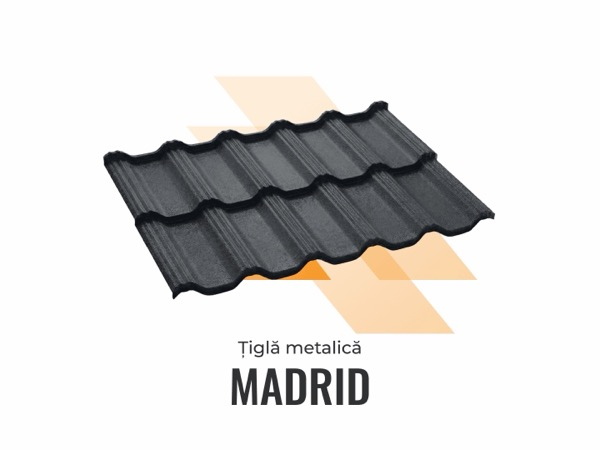
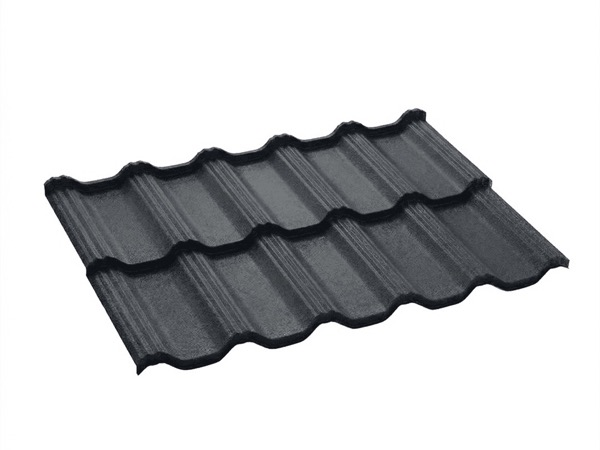
W27-FIX-06 The ten marked previews replaced by the makers' own packshots under W27-R-13
Seven Imperlux tiles take Imperlux's own mark-free gallery renders (Imperlux is their maker)
under a fifth override sentence naming the ruling; the two IKO shingles take IKO's own colour
swatches from iko.eu; Creaton Rapido takes the maker's (swissporTON) render. Fetched through the
intake, cropped to 4:3, looked at. Provenance rows, ledger rows, override lists, photo review.

Claude-Session: https://claude.ai/code/session_01WG5LwKbwaLCBty8n7hwXDp

Changed region(s): [[0.06, 0.1556, 0.96, 0.9022]]

diff --git a/scripts/check-asset-provenance.js b/scripts/check-asset-provenance.js
@@ -108,12 +108,25 @@ const OVERRIDES = [
     ruling: 'W27-R-04',
     licence: 'owner_override_imperlux, source of record by owner decision W27-R-04, the preview image as imperlux.md publishes it, watermark untouched, no upscale, source URL per file, owner accepted 2026-09-22',
     files: [
-      'ACIM-10', 'ACIM-11', 'ACIM-12', 'ACIM-13', 'ACIM-14', 'ACIM-15', 'ACIM-16', 'NVK-01', 'NVK-02', 'NVK-03', 'NVK-04',
+      /* W27-FIX-06 (W27-R-13): ACIM-10 to ACIM-16 moved to the fifth entry below (the maker's
+         own render, no mark); ACIM-01, ACIM-02 and ACIM-03 left the overrides altogether, their
+         pictures are the makers' own (swissporTON, IKO) under the manufacturer-packshot origin. */
+      'NVK-01', 'NVK-02', 'NVK-03', 'NVK-04',
       'ACOP-09',
-      'ACIM-02', 'ACIM-03', 'ACIM-01',
       /* W27-C-06: the rainwater parts and the metal tile accessories. */
       'ACIM-17', 'ACIM-18', 'ACIM-19', 'ACIM-20', 'ACIM-21', 'ACIM-22', 'ACIM-23', 'ACIM-24', 'ACIM-25', 'ACIM-26', 'ACIM-27', 'ACIM-28', 'ACIM-29', 'ACIM-30', 'ACIM-31', 'ACIM-32', 'ACIM-33', 'ACIM-34', 'ACIM-35', 'ACIM-36', 'ACIM-37', 'ACIM-38', 'ACIM-39', 'ACIM-40', 'ACIM-41', 'ACIM-42', 'ACIM-43', 'ACIM-44', 'ACIM-45', 'ACIM-46', 'ACIM-47', 'ACIM-48',
     ],
+  },
+  /* AMENDED (W27-R-13, W27-FIX-06): a FIFTH override, with its own sentence. Imperlux is the
+     maker of its seven metal tile models (every page: brand Imperlux, ArcelorMittal steel), so
+     "the manufacturer's own packshot" for them is Imperlux's own gallery render of the sheet,
+     which carries neither its orange mark nor the burned-in name the preview did. The sentence
+     records the 4:3 crop the card takes and that the decision is a strategy default the owner
+     may overturn. Seven files, by name; nothing else may stand on this sentence. */
+  {
+    ruling: 'W27-R-13',
+    licence: "owner_override_imperlux, the maker's own packshot by owner decision W27-R-13 (strategy default, owner may overturn), imperlux.md's gallery render of the model without its mark or name, cropped to 4:3, no upscale, source URL per file, 2026-09-23",
+    files: ['ACIM-10', 'ACIM-11', 'ACIM-12', 'ACIM-13', 'ACIM-14', 'ACIM-15', 'ACIM-16'],
   },
 ];
 const OVERRIDE_FILES = OVERRIDES.flatMap((o) => o.files);

diff --git a/scripts/fetch-packshot.js b/scripts/fetch-packshot.js
@@ -95,7 +95,11 @@ const OVERRIDE_SLOTS = [
   'GARD-01', 'GARD-02', 'GARD-03', 'GARD-04', 'GARD-05', 'GARD-06', 'GARD-07', 'GARD-08',
   'GARDB-01', 'GARDB-02', 'GARDB-03', 'GARDB-04',
   'ACOP-01', 'ACOP-02', 'ACOP-03', 'ACOP-04', 'ACOP-05', 'ACOP-06', 'ACOP-07',
-  'ACIM-01', 'ACIM-02', 'ACIM-03', 'ACIM-04', 'ACIM-05', 'ACIM-06', 'ACIM-07', 'ACIM-08', 'ACIM-09',
+  /* AMENDED (W27-R-13, W27-FIX-06): ACIM-01, ACIM-02 and ACIM-03 left this list. Their pictures
+     are the makers' own (swissporTON for Creaton Rapido, IKO for the two shingles) under the
+     manufacturer-packshot origin, so the override no longer covers them; a permission nothing
+     stands on is a dead exception. ACIM-10 to ACIM-16 stay: Imperlux is their maker. */
+  'ACIM-04', 'ACIM-05', 'ACIM-06', 'ACIM-07', 'ACIM-08', 'ACIM-09',
   /* AMENDED (W27-R-04, W27-C-03): imperlux.md is the source of record for everything under
      Acoperisuri and Garduri, so the list grows by name to every product slot those pages
      render: the seven metal tile models, the four Novatik models, and the ninth hub tile. */

diff --git a/scripts/check-photo-slots-w24.js b/scripts/check-photo-slots-w24.js
@@ -181,7 +181,11 @@ const OVERRIDE_SLOTS = [
      "the entire /servicii/acoperisuri/ hub including the second bento tiles":
      the second bento's three pictured tiles and the nine imperlux-only cards. */
   'ACOP-05', 'ACOP-06', 'ACOP-07',
-  'ACIM-01', 'ACIM-02', 'ACIM-03', 'ACIM-04', 'ACIM-05', 'ACIM-06', 'ACIM-07', 'ACIM-08', 'ACIM-09',
+  /* AMENDED (W27-R-13, W27-FIX-06): ACIM-01, ACIM-02 and ACIM-03 left this list. Their pictures
+     are the makers' own (swissporTON for Creaton Rapido, IKO for the two shingles) under the
+     manufacturer-packshot origin, so the override no longer covers them; a permission nothing
+     stands on is a dead exception. ACIM-10 to ACIM-16 stay: Imperlux is their maker. */
+  'ACIM-04', 'ACIM-05', 'ACIM-06', 'ACIM-07', 'ACIM-08', 'ACIM-09',
   /* AMENDED (W27-R-04, W27-C-03): FORTY. "imperlux.md is the source of record for
      EVERYTHING under Acoperisuri and Garduri ... Same images, same numbers." The seven
      metal tile models (ACIM-10 to 16), the four Novatik models (NVK-01 to 04) and the

diff --git a/docs/assets/PROVENANCE.md b/docs/assets/PROVENANCE.md
@@ -505,9 +505,9 @@ rows now carry `legacy, licence unverified`.
 | `public/img/acoperisuri/ACOP-06.jpg` | https://imperlux.md/acoperisuri · https://imperlux.md/acoperisuri/images/categories/shingle.png · Imperlux | owner_override_imperlux, competitor origin taken by owner decision W26-R10, cropped where burned-in text or branding sat, no upscale, source URL per file, owner accepted 2026-09-22 | https://imperlux.md/acoperisuri | 2026-09-22 |
 | `public/img/acoperisuri/ACOP-07.jpg` | https://imperlux.md/acoperisuri · https://imperlux.md/acoperisuri/images/categories/sisteme-pluviale.png · Imperlux | owner_override_imperlux, competitor origin taken by owner decision W26-R10, cropped where burned-in text or branding sat, no upscale, source URL per file, owner accepted 2026-09-22 | https://imperlux.md/acoperisuri | 2026-09-22 |
 | `public/img/acoperisuri/ACOP-08.jpg` | client direct transfer, owner folder RC-webpics_v2 ACOPERIȘURI, 22.09.2026 | owned by Rapid Construct, supplied for site use | not required, client-supplied original | 2026-09-22 |
-| `public/img/acoperisuri/ACIM-01.jpg` | https://imperlux.md/acoperisuri/produse/tigla-ceramica/creaton-rapido/ · https://imperlux.md/acoperisuri/images/products/creaton-rapido/hero.png · Imperlux | owner_override_imperlux, source of record by owner decision W27-R-04, the preview image as imperlux.md publishes it, watermark untouched, no upscale, source URL per file, owner accepted 2026-09-22 | https://imperlux.md/acoperisuri/produse/tigla-ceramica/creaton-rapido/ | 2026-09-22 |
-| `public/img/acoperisuri/ACIM-02.jpg` | https://imperlux.md/acoperisuri/produse/shingle/iko-cambridge/ · https://imperlux.md/acoperisuri/images/products/iko-cambridge/hero.png · Imperlux | owner_override_imperlux, source of record by owner decision W27-R-04, the preview image as imperlux.md publishes it, watermark untouched, no upscale, source URL per file, owner accepted 2026-09-22 | https://imperlux.md/acoperisuri/produse/shingle/iko-cambridge/ | 2026-09-22 |
-| `public/img/acoperisuri/ACIM-03.jpg` | https://imperlux.md/acoperisuri/produse/shingle/iko-hex/ · https://imperlux.md/acoperisuri/images/products/iko-hex/hero.png · Imperlux | owner_override_imperlux, source of record by owner decision W27-R-04, the preview image as imperlux.md publishes it, watermark untouched, no upscale, source URL per file, owner accepted 2026-09-22 | https://imperlux.md/acoperisuri/produse/shingle/iko-hex/ | 2026-09-22 |
+| `public/img/acoperisuri/ACIM-01.jpg` | https://www.swissporton.ro/produse/tigla-ceramica/rapido · https://www.swissporton.ro/media/4225/download/texture_125732.jpg?v=1 · swissporTON (swisspor Hungary SEE Kft., the former CREATON South-East Europe works that make Rapido) | manufacturer packshot, reseller display, licence not verified, owner accepted 2026-09-23 under W27-R-13 (strategy default, owner may overturn); the maker's own rendered close-up of Rapido in dark brown engobe, cropped to 4:3, no upscale | https://www.swissporton.ro/produse/tigla-ceramica/rapido | 2026-09-23 |
+| `public/img/acoperisuri/ACIM-02.jpg` | https://www.iko.eu/ro/produse/sindrile/cambridge-xpress · https://www.iko.eu/sites/default/files/public/2021-05/CAMBRIDGE_Xpress_52_B.jpg · IKO (IKO Sales International NV) | manufacturer packshot, reseller display, licence not verified, owner accepted 2026-09-23 under W27-R-13 (strategy default, owner may overturn); the maker's own colour swatch of Cambridge in 52 Dual Black, cropped to 4:3, no upscale | https://www.iko.eu/ro/produse/sindrile/cambridge-xpress | 2026-09-23 |
+| `public/img/acoperisuri/ACIM-03.jpg` | https://www.iko.eu/ro/produse/sindrile/superglass-hex · https://www.iko.eu/sites/default/files/public/2021-06/Superglass_HEX_01.jpg · IKO (IKO Sales International NV) | manufacturer packshot, reseller display, licence not verified, owner accepted 2026-09-23 under W27-R-13 (strategy default, owner may overturn); the maker's own colour swatch of Superglass Hex in 01 Black, cropped to 4:3, no upscale | https://www.iko.eu/ro/produse/sindrile/superglass-hex | 2026-09-23 |
 | `public/img/acoperisuri/ACIM-04.jpg` | https://imperlux.md/acoperisuri/produse/sisteme-pluviale/carlig-pazie-universal/ · https://imperlux.md/acoperisuri/images/products/sisteme-pluviale/carlig-pazie-universal.jpg · Imperlux | owner_override_imperlux, competitor origin taken by owner decision W26-R10, cropped where burned-in text or branding sat, no upscale, source URL per file, owner accepted 2026-09-22 | https://imperlux.md/acoperisuri/produse/sisteme-pluviale/carlig-pazie-universal/ | 2026-09-22 |
 | `public/img/acoperisuri/ACIM-05.jpg` | https://imperlux.md/acoperisuri/produse/sisteme-pluviale/cot-60/ · https://imperlux.md/acoperisuri/images/products/sisteme-pluviale/cot-60.jpg · Imperlux | owner_override_imperlux, competitor origin taken by owner decision W26-R10, cropped where burned-in text or branding sat, no upscale, source URL per file, owner accepted 2026-09-22 | https://imperlux.md/acoperisuri/produse/sisteme-pluviale/cot-60/ | 2026-09-22 |
 | `public/img/acoperisuri/ACIM-06.jpg` | https://imperlux.md/acoperisuri/produse/sisteme-pluviale/prelungitor/ · https://imperlux.md/acoperisuri/images/products/sisteme-pluviale/prelungitor.jpg · Imperlux | owner_override_imperlux, competitor origin taken by owner decision W26-R10, cropped where burned-in text or branding sat, no upscale, source URL per file, owner accepted 2026-09-22 | https://imperlux.md/acoperisuri/produse/sisteme-pluviale/prelungitor/ | 2026-09-22 |
@@ -692,13 +692,13 @@ rows now carry `legacy, licence unverified`.
 | `public/img/galerie/reparatii/26-t.jpg` | client direct transfer, owner folder RC-webpics_v2 Renovări la cheie, 22.09.2026 | owned by Rapid Construct, supplied for site use | not required, client-supplied original | 2026-09-22 |
 | `public/img/galerie/reparatii/27.jpg` | client direct transfer, owner folder RC-webpics_v2 Renovări la cheie, 22.09.2026 | owned by Rapid Construct, supplied for site use | not required, client-supplied original | 2026-09-22 |
 | `public/img/galerie/reparatii/27-t.jpg` | client direct transfer, owner folder RC-webpics_v2 Renovări la cheie, 22.09.2026 | owned by Rapid Construct, supplied for site use | not required, client-supplied original | 2026-09-22 |
-| `public/img/acoperisuri/ACIM-10.jpg` | https://imperlux.md/acoperisuri/produse/tigla-metalica/barcelona/ · https://imperlux.md/acoperisuri/images/products/barcelona/hero.png · Imperlux | owner_override_imperlux, source of record by owner decision W27-R-04, the preview image as imperlux.md publishes it, watermark untouched, no upscale, source URL per file, owner accepted 2026-09-22 | https://imperlux.md/acoperisuri/produse/tigla-metalica/barcelona/ | 2026-09-22 |
-| `public/img/acoperisuri/ACIM-11.jpg` | https://imperlux.md/acoperisuri/produse/tigla-metalica/madrid/ · https://imperlux.md/acoperisuri/images/products/madrid/hero.png · Imperlux | owner_override_imperlux, source of record by owner decision W27-R-04, the preview image as imperlux.md publishes it, watermark untouched, no upscale, source URL per file, owner accepted 2026-09-22 | https://imperlux.md/acoperisuri/produse/tigla-metalica/madrid/ | 2026-09-22 |
-| `public/img/acoperisuri/ACIM-12.jpg` | https://imperlux.md/acoperisuri/produse/tigla-metalica/bavaria/ · https://imperlux.md/acoperisuri/images/products/bavaria/hero.png · Imperlux | owner_override_imperlux, source of record by owner decision W27-R-04, the preview image as imperlux.md publishes it, watermark untouched, no upscale, source URL per file, owner accepted 2026-09-22 | https://imperlux.md/acoperisuri/produse/tigla-metalica/bavaria/ | 2026-09-22 |
-| `public/img/acoperisuri/ACIM-13.jpg` | https://imperlux.md/acoperisuri/produse/tigla-metalica/heta/ · https://imperlux.md/acoperisuri/images/products/heta/hero.png · Imperlux | owner_override_imperlux, source of record by owner decision W27-R-04, the preview image as imperlux.md publishes it, watermark untouched, no upscale, source URL per file, owner accepted 2026-09-22 | https://imperlux.md/acoperisuri/produse/tigla-metalica/heta/ | 2026-09-22 |
-| `public/img/acoperisuri/ACIM-14.jpg` | https://imperlux.md/acoperisuri/produse/tigla-metalica/zet/ · https://imperlux.md/acoperisuri/images/products/zet/hero.png · Imperlux | owner_override_imperlux, source of record by owner decision W27-R-04, the preview image as imperlux.md publishes it, watermark untouched, no upscale, source URL per file, owner accepted 2026-09-22 | https://imperlux.md/acoperisuri/produse/tigla-metalica/zet/ | 2026-09-22 |
-| `public/img/acoperisuri/ACIM-15.jpg` | https://imperlux.md/acoperisuri/produse/tigla-metalica/finn/ · https://imperlux.md/acoperisuri/images/products/finn/hero.png · Imperlux | owner_override_imperlux, source of record by owner decision W27-R-04, the preview image as imperlux.md publishes it, watermark untouched, no upscale, source URL per file, owner accepted 2026-09-22 | https://imperlux.md/acoperisuri/produse/tigla-metalica/finn/ | 2026-09-22 |
-| `public/img/acoperisuri/ACIM-16.jpg` | https://imperlux.md/acoperisuri/produse/tigla-metalica/izi/ · https://imperlux.md/acoperisuri/images/products/izi/hero.png · Imperlux | owner_override_imperlux, source of record by owner decision W27-R-04, the preview image as imperlux.md publishes it, watermark untouched, no upscale, source URL per file, owner accepted 2026-09-22 | https://imperlux.md/acoperisuri/produse/tigla-metalica/izi/ | 2026-09-22 |
+| `public/img/acoperisuri/ACIM-10.jpg` | https://imperlux.md/acoperisuri/produse/tigla-metalica/barcelona/ · https://imperlux.md/acoperisuri/images/products/barcelona/gallery-1.png · Imperlux | owner_override_imperlux, the maker's own packshot by owner decision W27-R-13 (strategy default, owner may overturn), imperlux.md's gallery render of the model without its mark or name, cropped to 4:3, no upscale, source URL per file, 2026-09-23 | https://imperlux.md/acoperisuri/produse/tigla-metalica/barcelona/ | 2026-09-23 |
+| `public/img/acoperisuri/ACIM-11.jpg` | https://imperlux.md/acoperisuri/produse/tigla-metalica/madrid/ · https://imperlux.md/acoperisuri/images/products/madrid/gallery-1.png · Imperlux | owner_override_imperlux, the maker's own packshot by owner decision W27-R-13 (strategy default, owner may overturn), imperlux.md's gallery render of the model without its mark or name, cropped to 4:3, no upscale, source URL per file, 2026-09-23 | https://imperlux.md/acoperisuri/produse/tigla-metalica/madrid/ | 2026-09-23 |
+| `public/img/acoperisuri/ACIM-12.jpg` | https://imperlux.md/acoperisuri/produse/tigla-metalica/bavaria/ · https://imperlux.md/acoperisuri/images/products/bavaria/gallery-1.png · Imperlux | owner_override_imperlux, the maker's own packshot by owner decision W27-R-13 (strategy default, owner may overturn), imperlux.md's gallery render of the model without its mark or name, cropped to 4:3, no upscale, source URL per file, 2026-09-23 | https://imperlux.md/acoperisuri/produse/tigla-metalica/bavaria/ | 2026-09-23 |
+| `public/img/acoperisuri/ACIM-13.jpg` | https://imperlux.md/acoperisuri/produse/tigla-metalica/heta/ · https://imperlux.md/acoperisuri/images/products/heta/photo-1.png · Imperlux | owner_override_imperlux, the maker's own packshot by owner decision W27-R-13 (strategy default, owner may overturn), imperlux.md's gallery render of the model without its mark or name, cropped to 4:3, no upscale, source URL per file, 2026-09-23 | https://imperlux.md/acoperisuri/produse/tigla-metalica/heta/ | 2026-09-23 |
+| `public/img/acoperisuri/ACIM-14.jpg` | https://imperlux.md/acoperisuri/produse/tigla-metalica/zet/ · https://imperlux.md/acoperisuri/images/products/zet/photo-1.png · Imperlux | owner_override_imperlux, the maker's own packshot by owner decision W27-R-13 (strategy default, owner may overturn), imperlux.md's gallery render of the model without its mark or name, cropped to 4:3, no upscale, source URL per file, 2026-09-23 | https://imperlux.md/acoperisuri/produse/tigla-metalica/zet/ | 2026-09-23 |
+| `public/img/acoperisuri/ACIM-15.jpg` | https://imperlux.md/acoperisuri/produse/tigla-metalica/finn/ · https://imperlux.md/acoperisuri/images/products/finn/photo-1.png · Imperlux | owner_override_imperlux, the maker's own packshot by owner decision W27-R-13 (strategy default, owner may overturn), imperlux.md's gallery render of the model without its mark or name, cropped to 4:3, no upscale, source URL per file, 2026-09-23 | https://imperlux.md/acoperisuri/produse/tigla-metalica/finn/ | 2026-09-23 |
+| `public/img/acoperisuri/ACIM-16.jpg` | https://imperlux.md/acoperisuri/produse/tigla-metalica/izi/ · https://imperlux.md/acoperisuri/images/products/izi/photo-1.png · Imperlux | owner_override_imperlux, the maker's own packshot by owner decision W27-R-13 (strategy default, owner may overturn), imperlux.md's gallery render of the model without its mark or name, cropped to 4:3, no upscale, source URL per file, 2026-09-23 | https://imperlux.md/acoperisuri/produse/tigla-metalica/izi/ | 2026-09-23 |
 | `public/img/acoperisuri/ACOP-05.jpg` | https://imperlux.md/acoperisuri/produse/tigla-ceramica/ · https://imperlux.md/acoperisuri/images/categories/ceramica.png · Imperlux | owner_override_imperlux, competitor origin taken by owner decision W26-R10, cropped where burned-in text or branding sat, no upscale, source URL per file, owner accepted 2026-09-22 | https://imperlux.md/acoperisuri/produse/tigla-ceramica/ | 2026-09-22 |
 | `public/img/acoperisuri/ACIM-17.jpg` | https://imperlux.md/acoperisuri/produse/sisteme-pluviale/jgheab/ · https://imperlux.md/acoperisuri/images/products/sisteme-pluviale/jgheab.jpg · Imperlux | owner_override_imperlux, source of record by owner decision W27-R-04, the preview image as imperlux.md publishes it, watermark untouched, no upscale, source URL per file, owner accepted 2026-09-22 | https://imperlux.md/acoperisuri/produse/sisteme-pluviale/jgheab/ | 2026-09-22 |
 | `public/img/acoperisuri/ACIM-18.jpg` | https://imperlux.md/acoperisuri/produse/sisteme-pluviale/burlan/ · https://imperlux.md/acoperisuri/images/products/sisteme-pluviale/burlan.jpg · Imperlux | owner_override_imperlux, source of record by owner decision W27-R-04, the preview image as imperlux.md publishes it, watermark untouched, no upscale, source URL per file, owner accepted 2026-09-22 | https://imperlux.md/acoperisuri/produse/sisteme-pluviale/burlan/ | 2026-09-22 |

diff --git a/docs/PHOTO-REVIEW-W25.md b/docs/PHOTO-REVIEW-W25.md
@@ -19,14 +19,14 @@ them apart: nothing from the earlier dispatch is a labelled swatch or carries a 
 
 | Flag | Rows | What to look for |
 |---|---|---|
-| labelled swatch | 137 | the product name or code is printed into the photograph, and the card prints it again underneath |
+| labelled swatch | 127 | the product name or code is printed into the photograph, and the card prints it again underneath |
 | watermark | 61 | a supplier mark on the picture or on the product. It is there on purpose and must not be cropped |
 | reuse | 24 | one picture filling a second record of the same product (W25-R17). Check the two cards are the same product |
 | google_pick | 12 | found by search because the product's own source publishes nothing at the 450 floor (W25-R20). Check it is the right product, and correct it if not |
 | library | 3 | a licence-free stock photograph from Unsplash or Pexels (W25-R23, W26-R8), decoration only. Check it suits the page |
 | low_res | 4 | the longest side is under the site's 450 floor, installed under W26-R13's floor of 300 for the last empty products. Replace it when a larger picture exists |
 | low confidence match | 9 | the plate matched Phomi at a tier that is not an exact string match. Check the name in the picture against the name on the card |
-| no flag | 139 | an ordinary manufacturer packshot |
+| no flag | 149 | an ordinary manufacturer packshot |
 
 ## Table one: every image on the site in these 4 sections
 
@@ -282,22 +282,22 @@ them apart: nothing from the earlier dispatch is a labelled swatch or carries a 
 | `ACOP-07` | ACOP-07 | /servicii/acoperisuri/ | https://imperlux.md/acoperisuri/images/categories/sisteme-pluviale.png | owner_override_imperlux | 840x480 | none |
 | `ACOP-08` | ACOP-08 | /servicii/acoperisuri/ | client direct transfer, owner folder RC-webpics_v2 ACOPERIȘURI, 22.09.2026 | owned by Rapid Construct, supplied for site use | 1280x730 | none |
 | `ACOP-09` | ACOP-09 | /servicii/acoperisuri/ | https://www.dasterum.md/content/catalog/products/vmt7scs4.jpg | direct_supplier dasterum.md | 488x488 | watermark, reuse of CAT-0228 |
-| `ACIM-01` | ACIM-01 | /servicii/acoperisuri/ | https://imperlux.md/acoperisuri/images/products/creaton-rapido/hero.png | owner_override_imperlux | 600x450 | labelled swatch |
-| `ACIM-02` | ACIM-02 | /servicii/acoperisuri/ | https://imperlux.md/acoperisuri/images/products/iko-cambridge/hero.png | owner_override_imperlux | 600x450 | labelled swatch |
-| `ACIM-03` | ACIM-03 | /servicii/acoperisuri/ | https://imperlux.md/acoperisuri/images/products/iko-hex/hero.png | owner_override_imperlux | 600x450 | labelled swatch |
+| `ACIM-01` | ACIM-01 | /servicii/acoperisuri/ | https://www.swissporton.ro/media/4225/download/texture_125732.jpg | manufacturer official site | 600x450 | none |
+| `ACIM-02` | ACIM-02 | /servicii/acoperisuri/ | https://www.iko.eu/sites/default/files/public/2021-05/CAMBRIDGE_Xpress_52_B.jpg | manufacturer official site | 600x450 | none |
+| `ACIM-03` | ACIM-03 | /servicii/acoperisuri/ | https://www.iko.eu/sites/default/files/public/2021-06/Superglass_HEX_01.jpg | manufacturer official site | 600x450 | none |
 | `ACIM-04` | ACIM-04 | /servicii/acoperisuri/ | https://imperlux.md/acoperisuri/images/products/sisteme-pluviale/carlig-pazie-universal.jpg | owner_override_imperlux | 600x600 | none |
 | `ACIM-05` | ACIM-05 | /servicii/acoperisuri/ | https://imperlux.md/acoperisuri/images/products/sisteme-pluviale/cot-60.jpg | owner_override_imperlux | 600x600 | none |
 | `ACIM-06` | ACIM-06 | /servicii/acoperisuri/ | https://imperlux.md/acoperisuri/images/products/sisteme-pluviale/prelungitor.jpg | owner_override_imperlux | 600x600 | none |
 | `ACIM-07` | ACIM-07 | /servicii/acoperisuri/ | https://imperlux.md/acoperisuri/images/products/sisteme-pluviale/palnie-colectoare.jpg | owner_override_imperlux | 600x600 | none |
 | `ACIM-08` | ACIM-08 | /servicii/acoperisuri/ | https://imperlux.md/acoperisuri/images/products/sisteme-pluviale/ramificatie-burlan.jpg | owner_override_imperlux | 600x600 | none |
 | `ACIM-09` | ACIM-09 | /servicii/acoperisuri/ | https://imperlux.md/acoperisuri/images/products/sisteme-pluviale/element-captare.jpg | owner_override_imperlux | 600x600 | none |
-| `ACIM-10` | ACIM-10 | /servicii/acoperisuri/ | https://imperlux.md/acoperisuri/images/products/barcelona/hero.png | owner_override_imperlux | 600x450 | labelled swatch |
-| `ACIM-11` | ACIM-11 | /servicii/acoperisuri/ | https://imperlux.md/acoperisuri/images/products/madrid/hero.png | owner_override_imperlux | 600x450 | labelled swatch |
-| `ACIM-12` | ACIM-12 | /servicii/acoperisuri/ | https://imperlux.md/acoperisuri/images/products/bavaria/hero.png | owner_override_imperlux | 600x450 | labelled swatch |
-| `ACIM-13` | ACIM-13 | /servicii/acoperisuri/ | https://imperlux.md/acoperisuri/images/products/heta/hero.png | owner_override_imperlux | 600x450 | labelled swatch |
-| `ACIM-14` | ACIM-14 | /servicii/acoperisuri/ | https://imperlux.md/acoperisuri/images/products/zet/hero.png | owner_override_imperlux | 600x450 | labelled swatch |
-| `ACIM-15` | ACIM-15 | /servicii/acoperisuri/ | https://imperlux.md/acoperisuri/images/products/finn/hero.png | owner_override_imperlux | 600x450 | labelled swatch |
-| `ACIM-16` | ACIM-16 | /servicii/acoperisuri/ | https://imperlux.md/acoperisuri/images/products/izi/hero.png | owner_override_imperlux | 600x450 | labelled swatch |
+| `ACIM-10` | ACIM-10 | /servicii/acoperisuri/ | https://imperlux.md/acoperisuri/images/products/barcelona/gallery-1.png | owner_override_imperlux | 600x450 | none |
+| `ACIM-11` | ACIM-11 | /servicii/acoperisuri/ | https://imperlux.md/acoperisuri/images/products/madrid/gallery-1.png | owner_override_imperlux | 600x450 | none |
+| `ACIM-12` | ACIM-12 | /servicii/acoperisuri/ | https://imperlux.md/acoperisuri/images/products/bavaria/gallery-1.png | owner_override_imperlux | 600x450 | none |
+| `ACIM-13` | ACIM-13 | /servicii/acoperisuri/ | https://imperlux.md/acoperisuri/images/products/heta/photo-1.png | owner_override_imperlux | 600x450 | none |
+| `ACIM-14` | ACIM-14 | /servicii/acoperisuri/ | https://imperlux.md/acoperisuri/images/products/zet/photo-1.png | owner_override_imperlux | 600x450 | none |
+| `ACIM-15` | ACIM-15 | /servicii/acoperisuri/ | https://imperlux.md/acoperisuri/images/products/finn/photo-1.png | owner_override_imperlux | 600x450 | none |
+| `ACIM-16` | ACIM-16 | /servicii/acoperisuri/ | https://imperlux.md/acoperisuri/images/products/izi/photo-1.png | owner_override_imperlux | 600x450 | none |
 | `ACIM-17` | ACIM-17 | /servicii/acoperisuri/ | https://imperlux.md/acoperisuri/images/products/sisteme-pluviale/jgheab.jpg | owner_override_imperlux | 600x600 | none |
 | `ACIM-18` | ACIM-18 | /servicii/acoperisuri/ | https://imperlux.md/acoperisuri/images/products/sisteme-pluviale/burlan.jpg | owner_override_imperlux | 600x600 | none |
 | `ACIM-19` | ACIM-19 | /servicii/acoperisuri/ | https://imperlux.md/acoperisuri/images/products/sisteme-pluviale/coltar-interior.jpg | owner_override_imperlux | 600x600 | none |

diff --git a/DECISIONS.md b/DECISIONS.md
@@ -13553,3 +13553,53 @@ in Q-W27-04).
 **Heights.** Two grid rows fewer: 24,782 to 23,873 RO and 25,003 to 24,094 RU at 1440 settled; all
 53 re-measured, two move to measured plus 60 (R-Y). `scripts/verify-live.js` counts 99 cards. The
 mirror report's group table and near-name table carry the amendment.
+
+## W27-FIX-06 · The ten marked previews replaced by the makers' own packshots under W27-R-13, 2026-09-23
+
+Branch `w27/w27-fix-06-packshots`, stacked on W27-FIX-05.
+
+**W27-R-13 applied to the nine previews it names and the tenth that carries the same mark.** Every
+picture went through `scripts/fetch-packshot.js` (the one thing in the repo that reaches the network
+for an image) into staging and `scripts/process-packshot.js` into `public/`, cropped to the card's
+4:3 with both sides above the 450 floor, never upscaled, metadata stripped, and each file was looked
+at by a person (this terminal, with the file open) before it landed.
+
+**Who makes what, read from the source pages, decided the origin.**
+
+- **The seven metal tiles (ACIM-10 to ACIM-16) are Imperlux's own make**: every product page declares
+  brand Imperlux and ArcelorMittal steel, so no other manufacturer's packshot exists. Each page also
+  publishes a gallery of 1080x1080 renders of the bare sheet (`gallery-1.png` on Barcelona, Madrid,
+  Bavaria; `photo-1.png` on Heta, Zet, Finn, Izi), with neither the orange mark nor the burned-in
+  name the preview carried. Those are installed under a **fifth override sentence naming W27-R-13**
+  in `scripts/check-asset-provenance.js` (seven files, by name); the seven left the W27-R-04 list.
+  In the ruling's own terms these seven are the **kept-imperlux list**: still Imperlux's pictures,
+  because Imperlux is the maker, now without its mark.
+- **The two IKO shingles (ACIM-02, ACIM-03)** take IKO's own colour swatches from iko.eu (IKO Sales
+  International NV, the maker, by the site's own imprint): Cambridge in 52 Dual Black, the colour
+  Imperlux shows first, 1200x1175; Superglass Hex in 01 Black, 1200x1165. IKO publishes no loose
+  shingle or bundle packshot; its media library is login-only. Manufacturer-packshot origin.
+- **Creaton Rapido (ACIM-01)** takes the maker's rendered close-up of the roof in dark brown engobe
+  ("Maro închis", the colour the card names), 1165x1083, from swissporton.ro. The CREATON
+  South-East Europe works that make Rapido (Lenti, Hungary) sell under the swissporTON brand since
+  the swisspor group took them over, and every CREATON domain the research tried is either the
+  German parent (no Rapido) or unreachable; the site's own imprint is the maker, not a reseller.
+  Manufacturer-packshot origin, with the maker named in the row.
+
+**The research and the sweep were adversarial, on purpose.** Two finders per product (one walking
+the maker's site, one searching) and one skeptic per candidate, each measuring the file and
+reading the site's legal pages before accepting a host; the IKO and swissporTON candidates survived
+every check, and the swissporTON one was refuted only on the literal domain list the brief gave
+and accepted here on the imprint. Then every filled product-card picture on the roofing, Novatik
+and fence pages, 76 files, was looked at twice by independent viewers with a tie-break: the only
+overlaid third-party marks were the ten previews this card replaces. What else was found is on
+the products themselves and is recorded, not touched: the BILKA stamp embossed on four rainwater
+parts (ACIM-22, 25, 26, 31), so Imperlux's gutters are Bilka-made; the "mdm VAXO" factory print on
+the five membranes (ACIM-40 to 44); the Novatik previews' burned-in caption (category and model
+name, no orange mark, W25-R5's label case); and Dasterum's watermark on its own five tile pictures
+(CAT-0224 to 0228), permitted by W25-R7.
+
+**Records.** Ten provenance rows rewritten with the new source page, image URL, maker, licence
+sentence and date; ten ledger rows amended and their `label` flag dropped (no burned-in name any
+more), `docs/PHOTO-REVIEW-W25.md` regenerated; ACIM-01, 02 and 03 leave the imperlux override lists
+in `check-photo-slots-w24.js` and `fetch-packshot.js` (a permission nothing stands on is a dead
+exception). **Heights**: all 53 measured, 0 move (the pictures fill the same 4:3 boxes).

diff --git a/docs/board/W27-FIX-06-packshots.md b/docs/board/W27-FIX-06-packshots.md
@@ -1,0 +1,37 @@
+# W27-FIX-06 · Product pictures without Imperlux's mark
+
+Card W27-FIX-06. Branch `w27/w27-fix-06-packshots`, stacked on W27-FIX-05.
+
+## What this does
+
+Your decision W27-R-13: the previews that carried Imperlux's orange mark are replaced by the
+manufacturer's own packshot of the same model. Ten pictures change on the roofing page:
+
+- **The seven metal tiles** (Barcelona, Madrid, Bavaria, Heta, Zet, Finn, Izi). Imperlux is the
+  maker of these (its pages say so), so there is no other manufacturer to go to. Imperlux's own
+  product pages carry a clean render of each sheet without the mark and without the printed name;
+  those are what the cards show now. This is the "kept-imperlux" list: still Imperlux's pictures,
+  because Imperlux makes the tiles, now without its branding.
+- **IKO Cambridge and IKO Superglass Hex**: IKO's own colour swatches from iko.eu (Cambridge in 52
+  Dual Black, Hex in 01 Black).
+- **Creaton Rapido**: the maker's own render in dark brown. The factory that makes Rapido now sells
+  as swissporTON (the swisspor group bought CREATON's south-east European works), so the picture
+  comes from swissporton.ro; the card still says Creaton Rapido, as Imperlux does.
+
+All 76 product pictures on the roofing, Novatik and fence pages were then looked at twice by
+independent viewers: no other overlaid third-party mark. Four gutter parts carry a BILKA stamp
+pressed into the metal (Imperlux's gutters are Bilka-made) and the membranes carry their factory
+print; those are the products themselves and are left as they are.
+
+## What to look at
+
+`https://rapidconstruct.md/servicii/acoperisuri/`: the seven metal tile cards, the two shingles and
+Creaton Rapido show the product alone, no orange shapes, no printed name.
+
+## Heights
+
+No page moves: the new pictures fill the same boxes.
+
+## Gates
+
+Static gates exit 0, provenance and photo-slot gates included. CI runs the full 29.

diff --git a/docs/BACKLOG.md b/docs/BACKLOG.md
@@ -1188,3 +1188,12 @@ their Dasterum twins (CAT-0273, 0274, 0275, 0278, 0279, 0277), show the folded g
 both URLs; six ledger rows orphaned, generated docs regenerated. The membranes, the ridge band and
 Folie anticondens held in Q-W27-04. Measured: 1 grid, 99 cards, 60 of 60 accessories in it, chips
 sum to Toate, 0 duplicate names. Roofing page 23,873 / 24,094, budgets 23,933 / 24,154 (R-Y).
+
+## W27-FIX-06 · The ten marked previews replaced by the makers' own packshots
+**Status: PR OPEN** (opened 2026-09-23). W27-R-13 applied: the seven Imperlux tiles take Imperlux's
+own mark-free 1080x1080 gallery renders (Imperlux is their maker), under a fifth override sentence
+naming the ruling; the two IKO shingles take IKO's own colour swatches from iko.eu; Creaton Rapido
+takes the maker's (swissporTON, the former CREATON works) dark-brown render. Every file fetched
+through the intake, cropped to 4:3, looked at. A 76-picture sweep found no other overlaid mark;
+the factory stamps found (BILKA, mdm VAXO, the Novatik caption, Dasterum's watermark) are recorded.
+0 budgets move.
